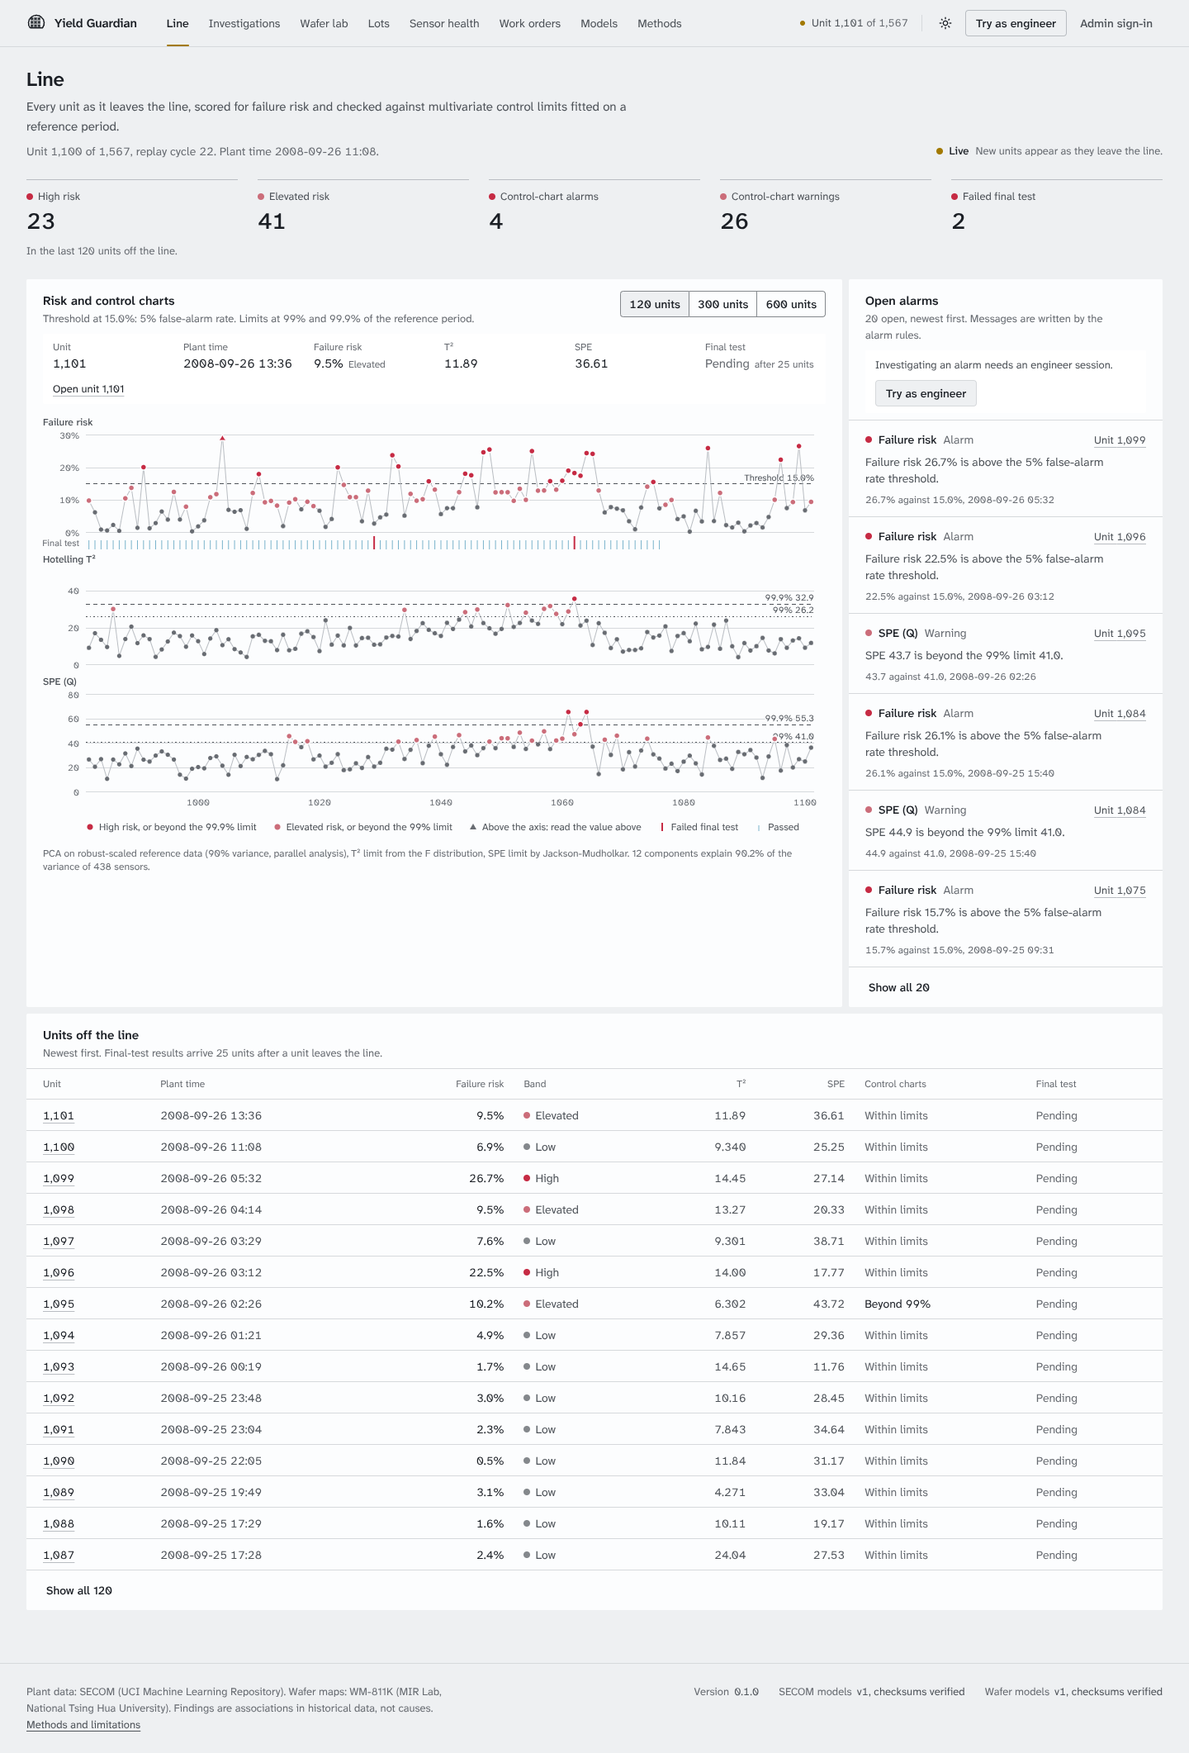
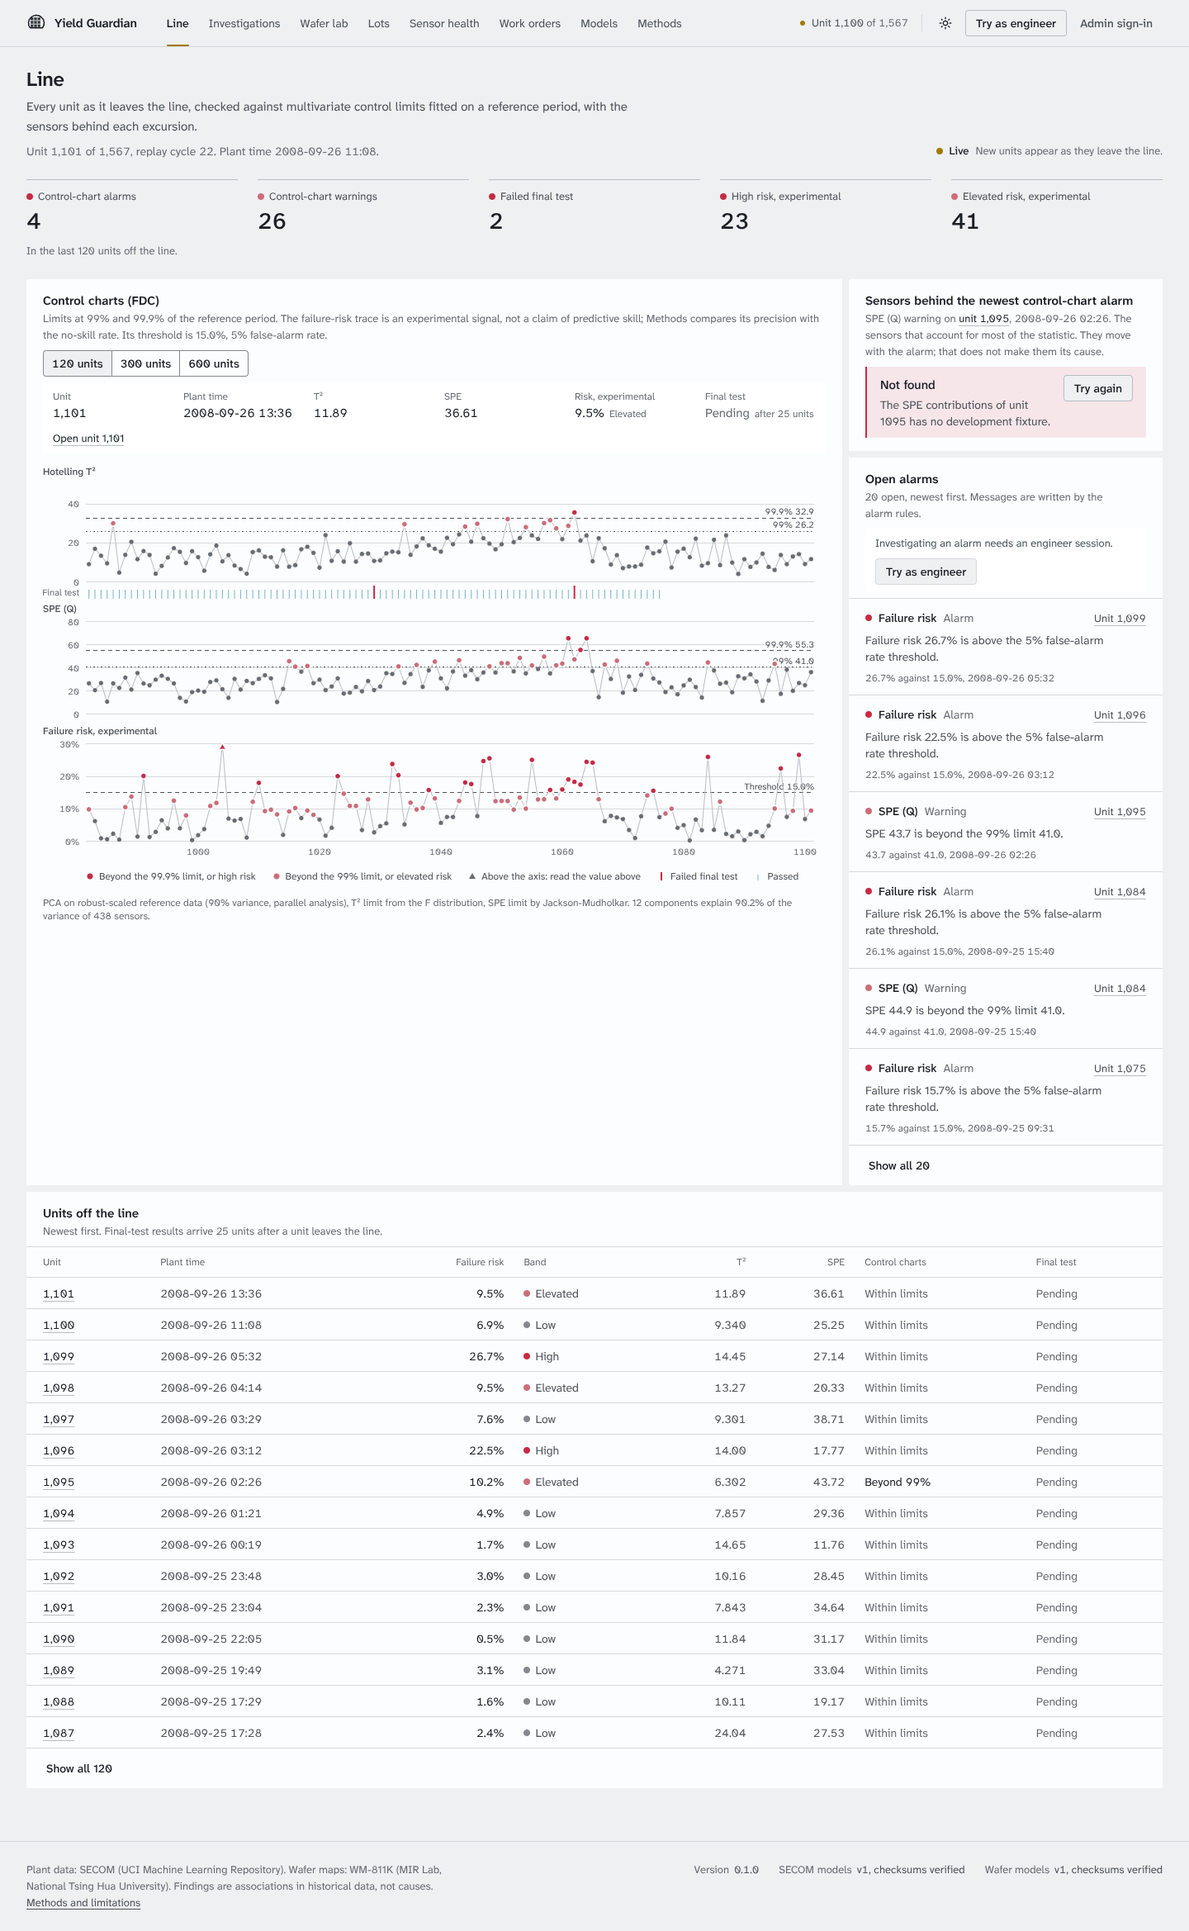
web: wafer contract update (Mahalanobis unknown score); line leads with FDC and root cause
The failure-risk trace is labelled experimental and moved below the control charts.
A new panel lists the sensors behind the newest T² or SPE alarm.

Claude-Session: https://claude.ai/code/session_01W66SkS2VhXFaLiM1yadMNk

diff --git a/apps/web/src/components/line/line-charts.tsx b/apps/web/src/components/line/line-charts.tsx
@@ -24,7 +24,7 @@ const limitTone = (value: number, warn: number, alarm: number): MarkTone =>
   value > alarm ? "fail" : value > warn ? "concern" : "neutral";
 
 /**
- * Failure risk, Hotelling T² and SPE for the units in the window, stacked on one time axis with
+ * Hotelling T², SPE and the experimental failure risk for the units in the window, stacked on one time axis with
  * one cursor. Hover or use the arrow keys to read a unit; click or Enter pins it.
  */
 export function LineCharts({
@@ -131,37 +131,37 @@ export function LineCharts({
         onKeyDown={onKeyDown}
         className="mt-3 rounded-sm"
       >
-        <ControlChart
-          {...shared}
-          label="Failure risk"
-          points={risk.points}
-          yMax={risk.max}
-          limits={risk.lines}
-          formatTick={(v) => `${Math.round(v * 100)}%`}
-          rug={rug}
-          height={166}
-        />
         {t2 && spe ? (
           <>
-            <ControlChart {...shared} label="Hotelling T²" points={t2.points} yMax={t2.max} limits={t2.lines} formatTick={(v) => formatInt(v)} />
             <ControlChart
               {...shared}
-              label="SPE (Q)"
-              points={spe.points}
-              yMax={spe.max}
-              limits={spe.lines}
+              label="Hotelling T²"
+              points={t2.points}
+              yMax={t2.max}
+              limits={t2.lines}
               formatTick={(v) => formatInt(v)}
-              showXAxis
+              rug={rug}
               height={166}
             />
+            <ControlChart {...shared} label="SPE (Q)" points={spe.points} yMax={spe.max} limits={spe.lines} formatTick={(v) => formatInt(v)} />
           </>
         ) : (
           <p className="py-6 pl-[52px] text-sm text-ink-3">Control limits are loading.</p>
         )}
+        <ControlChart
+          {...shared}
+          label="Failure risk, experimental"
+          points={risk.points}
+          yMax={risk.max}
+          limits={risk.lines}
+          formatTick={(v) => `${Math.round(v * 100)}%`}
+          showXAxis
+          height={166}
+        />
       </div>
       <Legend />
       <p className="sr-only" aria-live="polite">
-        {pinnedUnit ? `Unit ${pinnedUnit.unit_id}: risk ${formatProbability(pinnedUnit.risk)}, T² ${formatReading(pinnedUnit.t2)}, SPE ${formatReading(pinnedUnit.spe)}.` : ""}
+        {pinnedUnit ? `Unit ${pinnedUnit.unit_id}: T² ${formatReading(pinnedUnit.t2)}, SPE ${formatReading(pinnedUnit.spe)}, experimental risk ${formatProbability(pinnedUnit.risk)}.` : ""}
       </p>
     </div>
   );
@@ -182,13 +182,13 @@ function Readout({ unit, pinned, lag }: { unit: UnitSummary | undefined; pinned:
       <dl className="grid grow grid-cols-2 gap-x-6 gap-y-1 sm:grid-cols-3 lg:grid-cols-6">
         <ReadoutItem label="Unit" value={formatInt(unit.unit_id)} />
         <ReadoutItem label="Plant time" value={formatPlantTime(unit.timestamp)} />
+        <ReadoutItem label="T²" value={formatReading(unit.t2)} />
+        <ReadoutItem label="SPE" value={formatReading(unit.spe)} />
         <ReadoutItem
-          label="Failure risk"
+          label="Risk, experimental"
           value={unit.risk == null ? "Warm-up" : formatProbability(unit.risk)}
           detail={unit.risk_band ? BAND_NAME[unit.risk_band] : undefined}
         />
-        <ReadoutItem label="T²" value={formatReading(unit.t2)} />
-        <ReadoutItem label="SPE" value={formatReading(unit.spe)} />
         <ReadoutItem
           label="Final test"
           value={finalTest}
@@ -223,11 +223,11 @@ function Legend() {
     <ul className="mt-3 flex flex-wrap gap-x-5 gap-y-1.5 pl-[52px] text-[12px] leading-4 text-ink-2" aria-label="Legend">
       <li className={item}>
         <svg width="10" height="10" aria-hidden="true"><circle cx="5" cy="5" r="3.5" fill="var(--fail)" /></svg>
-        High risk, or beyond the 99.9% limit
+        Beyond the 99.9% limit, or high risk
       </li>
       <li className={item}>
         <svg width="10" height="10" aria-hidden="true"><circle cx="5" cy="5" r="3.5" fill="var(--concern)" /></svg>
-        Elevated risk, or beyond the 99% limit
+        Beyond the 99% limit, or elevated risk
       </li>
       <li className={item}>
         <svg width="10" height="10" aria-hidden="true"><path d="M5,1 l4,7 h-8z" fill="var(--ink-3)" /></svg>

diff --git a/apps/web/src/components/unit/unit-view.tsx b/apps/web/src/components/unit/unit-view.tsx
@@ -1,11 +1,12 @@
 "use client";
 
 import { useQuery } from "@tanstack/react-query";
-import type { FdcContributions, UnitDetail } from "@yield-guardian/contracts";
+import type { UnitDetail } from "@yield-guardian/contracts";
 import Link from "next/link";
 import { useState } from "react";
 
 import { ShapWaterfall } from "@/components/charts/shap-waterfall";
+import { ContributionTable } from "@/components/fdc/contribution-table";
 import { PageFrame, PageHeader, Panel, Reading } from "@/components/page";
 import { EmptyState, ErrorState, Placeholder, QueryView } from "@/components/states";
 import { Button } from "@/components/ui/button";
@@ -15,7 +16,7 @@ import { ApiError } from "@/lib/api/errors";
 import { useStartInvestigation } from "@/lib/api/investigations";
 import { q } from "@/lib/api/queries";
 import { useSession, useStartGuestSession } from "@/lib/api/session";
-import { formatInt, formatPercent, formatPlantTime, formatProbability, formatReading, formatSigned } from "@/lib/format";
+import { formatInt, formatPlantTime, formatProbability, formatReading, formatSigned } from "@/lib/format";
 import { ALARM_KIND, BAND_NAME, BLOCK_NAME } from "@/lib/labels";
 import { cn } from "@/lib/utils";
 
@@ -161,60 +162,6 @@ function Contributions({ unitId }: { unitId: number }) {
         {(c) => <ContributionTable data={c} />}
       </QueryView>
     </Panel>
-  );
-}
-
-function ContributionTable({ data }: { data: FdcContributions }) {
-  const max = Math.max(...data.contributions.map((c) => c.share), data.other_share, 0.01);
-  return (
-    <>
-      <p className="tnum mb-3 text-[13px] leading-5 text-ink-2">
-        {data.statistic === "t2" ? "T²" : "SPE"} {formatReading(data.value)} against limits {formatReading(data.limit_99, 3)} (99%) and{" "}
-        {formatReading(data.limit_999, 3)} (99.9%).
-      </p>
-      <table className="w-full border-collapse text-left text-[13px] leading-5">
-        <caption className="sr-only">Contributions by sensor</caption>
-        <thead>
-          <tr className="text-[12px] text-ink-3">
-            <th scope="col" className="py-1.5 pr-3 font-normal">Sensor</th>
-            <th scope="col" className="w-[40%] py-1.5 pr-3 font-normal">Share</th>
-            <th scope="col" className="py-1.5 pr-3 text-right font-normal">Reading</th>
-            <th scope="col" className="py-1.5 text-right font-normal">Reference median</th>
-          </tr>
-        </thead>
-        <tbody>
-          {data.contributions.map((c) => (
-            <tr key={c.sensor} className="border-t border-hairline">
-              <th scope="row" className="tnum py-1.5 pr-3 font-normal">
-                <Link href={`/sensors?sensor=${c.sensor}`} className="text-ink underline decoration-hairline-strong underline-offset-4">
-                  {c.sensor}
-                </Link>
-              </th>
-              <td className="py-1.5 pr-3">
-                <span className="flex items-center gap-2">
-                  <span className="h-2.5 rounded-[2px] bg-ink-2" style={{ width: `${(c.share / max) * 100}%`, minWidth: 2 }} aria-hidden="true" />
-                  <span className="tnum shrink-0 text-ink-2">{formatPercent(c.share)}</span>
-                </span>
-              </td>
-              <td className="tnum py-1.5 pr-3 text-right text-ink">{c.value == null ? <span className="text-ink-3">Not measured</span> : formatReading(c.value)}</td>
-              <td className="tnum py-1.5 text-right text-ink-3">{formatReading(c.reference_median)}</td>
-            </tr>
-          ))}
-          <tr className="border-t border-hairline">
-            <th scope="row" className="py-1.5 pr-3 font-normal text-ink-3">Others</th>
-            <td className="py-1.5 pr-3">
-              <span className="flex items-center gap-2">
-                <span className="h-2.5 rounded-[2px] bg-mark-muted" style={{ width: `${(data.other_share / max) * 100}%`, minWidth: 2 }} aria-hidden="true" />
-                <span className="tnum shrink-0 text-ink-3">{formatPercent(data.other_share)}</span>
-              </span>
-            </td>
-            <td />
-            <td />
-          </tr>
-        </tbody>
-      </table>
-      <p className="mt-3 text-[12px] leading-4 text-ink-3">{data.method}.</p>
-    </>
   );
 }
 

diff --git a/apps/web/src/components/fdc/contribution-table.tsx b/apps/web/src/components/fdc/contribution-table.tsx
@@ -1,0 +1,59 @@
+import type { FdcContributions } from "@yield-guardian/contracts";
+import Link from "next/link";
+
+import { formatPercent, formatReading } from "@/lib/format";
+
+/** Each sensor's share of a unit's T² or SPE, largest first, with the reading against the reference median. */
+export function ContributionTable({ data }: { data: FdcContributions }) {
+  const max = Math.max(...data.contributions.map((c) => c.share), data.other_share, 0.01);
+  return (
+    <>
+      <p className="tnum mb-3 text-[13px] leading-5 text-ink-2">
+        {data.statistic === "t2" ? "T²" : "SPE"} {formatReading(data.value)} against limits {formatReading(data.limit_99, 3)} (99%) and{" "}
+        {formatReading(data.limit_999, 3)} (99.9%).
+      </p>
+      <table className="w-full border-collapse text-left text-[13px] leading-5">
+        <caption className="sr-only">Contributions by sensor</caption>
+        <thead>
+          <tr className="text-[12px] text-ink-3">
+            <th scope="col" className="py-1.5 pr-3 font-normal">Sensor</th>
+            <th scope="col" className="w-[40%] py-1.5 pr-3 font-normal">Share</th>
+            <th scope="col" className="py-1.5 pr-3 text-right font-normal">Reading</th>
+            <th scope="col" className="py-1.5 text-right font-normal">Reference median</th>
+          </tr>
+        </thead>
+        <tbody>
+          {data.contributions.map((c) => (
+            <tr key={c.sensor} className="border-t border-hairline">
+              <th scope="row" className="tnum py-1.5 pr-3 font-normal">
+                <Link href={`/sensors?sensor=${c.sensor}`} className="text-ink underline decoration-hairline-strong underline-offset-4">
+                  {c.sensor}
+                </Link>
+              </th>
+              <td className="py-1.5 pr-3">
+                <span className="flex items-center gap-2">
+                  <span className="h-2.5 rounded-[2px] bg-ink-2" style={{ width: `${(c.share / max) * 100}%`, minWidth: 2 }} aria-hidden="true" />
+                  <span className="tnum shrink-0 text-ink-2">{formatPercent(c.share)}</span>
+                </span>
+              </td>
+              <td className="tnum py-1.5 pr-3 text-right text-ink">{c.value == null ? <span className="text-ink-3">Not measured</span> : formatReading(c.value)}</td>
+              <td className="tnum py-1.5 text-right text-ink-3">{formatReading(c.reference_median)}</td>
+            </tr>
+          ))}
+          <tr className="border-t border-hairline">
+            <th scope="row" className="py-1.5 pr-3 font-normal text-ink-3">Others</th>
+            <td className="py-1.5 pr-3">
+              <span className="flex items-center gap-2">
+                <span className="h-2.5 rounded-[2px] bg-mark-muted" style={{ width: `${(data.other_share / max) * 100}%`, minWidth: 2 }} aria-hidden="true" />
+                <span className="tnum shrink-0 text-ink-3">{formatPercent(data.other_share)}</span>
+              </span>
+            </td>
+            <td />
+            <td />
+          </tr>
+        </tbody>
+      </table>
+      <p className="mt-3 text-[12px] leading-4 text-ink-3">{data.method}.</p>
+    </>
+  );
+}

diff --git a/apps/web/src/components/line/root-cause.tsx b/apps/web/src/components/line/root-cause.tsx
@@ -1,0 +1,63 @@
+"use client";
+
+import { useQuery } from "@tanstack/react-query";
+import type { Alarm } from "@yield-guardian/contracts";
+import Link from "next/link";
+
+import { ContributionTable } from "@/components/fdc/contribution-table";
+import { Panel } from "@/components/page";
+import { EmptyState, Placeholder, QueryView } from "@/components/states";
+import { useApi } from "@/lib/api/context";
+import { q } from "@/lib/api/queries";
+import { formatInt, formatPlantTime } from "@/lib/format";
+import { ALARM_KIND } from "@/lib/labels";
+
+const TOP = 8;
+
+/** The newest open T² or SPE alarm (alarms arrive newest first). */
+export function newestControlAlarm(alarms: Alarm[]): (Alarm & { kind: "t2" | "spe" }) | undefined {
+  return alarms.find((a): a is Alarm & { kind: "t2" | "spe" } => a.kind === "t2" || a.kind === "spe");
+}
+
+/**
+ * Root cause, as far as the control charts can say it: which sensors carry the newest
+ * control-chart alarm. Contributions are associations with the statistic, not causes.
+ */
+export function RootCause({ alarms, className }: { alarms: Alarm[]; className?: string }) {
+  const api = useApi();
+  const alarm = newestControlAlarm(alarms);
+  const query = useQuery({ ...q.contributions(api, alarm?.unit_id ?? 0, alarm?.kind ?? "t2", TOP), enabled: alarm != null });
+
+  return (
+    <Panel
+      title="Sensors behind the newest control-chart alarm"
+      description={
+        alarm ? (
+          <>
+            <span className="tnum">
+              {ALARM_KIND[alarm.kind]} {alarm.severity === "alarm" ? "alarm" : "warning"} on{" "}
+              <Link href={`/units/${alarm.unit_id}`} className="text-ink underline decoration-hairline-strong underline-offset-4">
+                unit {formatInt(alarm.unit_id)}
+              </Link>
+              , {formatPlantTime(alarm.timestamp)}.
+            </span>{" "}
+            The sensors that account for most of the statistic. They move with the alarm; that does not make them its cause.
+          </>
+        ) : (
+          "The sensors that account for most of a control-chart statistic, for the newest T² or SPE alarm."
+        )
+      }
+      className={className}
+    >
+      {alarm ? (
+        <QueryView query={query} loading={<Placeholder className="h-64" label="Loading contributions" />} compactError>
+          {(c) => <ContributionTable data={c} />}
+        </QueryView>
+      ) : (
+        <EmptyState title="No open control-chart alarm">
+          When a unit crosses the T² or SPE limit, the sensors that carry it are listed here.
+        </EmptyState>
+      )}
+    </Panel>
+  );
+}

diff --git a/apps/web/src/components/line/line-view.tsx b/apps/web/src/components/line/line-view.tsx
@@ -17,6 +17,7 @@ import { LineCharts } from "./line-charts";
 import { LineKpis } from "./line-kpis";
 import { OpenAlarms } from "./open-alarms";
 import { RecentUnits } from "./recent-units";
+import { RootCause } from "./root-cause";
 
 export function LineView() {
   const api = useApi();
@@ -30,7 +31,7 @@ export function LineView() {
     <PageFrame>
       <PageHeader
         title="Line"
-        description="Every unit as it leaves the line, scored for failure risk and checked against multivariate control limits fitted on a reference period."
+        description="Every unit as it leaves the line, checked against multivariate control limits fitted on a reference period, with the sensors behind each excursion."
         meta={
           state ? (
             <span className="tnum">
@@ -54,8 +55,8 @@ export function LineView() {
           <LineKpis kpis={state.kpis} className="mb-4" />
           <div className="grid gap-street xl:grid-cols-[minmax(0,1fr)_380px]">
             <Panel
-              title="Risk and control charts"
-              description={`Threshold at ${formatProbability(state.operating_point.threshold)}: ${state.operating_point.label}. Limits at 99% and 99.9% of the reference period.`}
+              title="Control charts (FDC)"
+              description={`Limits at 99% and 99.9% of the reference period. The failure-risk trace is an experimental signal, not a claim of predictive skill; Methods compares its precision with the no-skill rate. Its threshold is ${formatProbability(state.operating_point.threshold)}, ${state.operating_point.label}.`}
               actions={
                 <ToggleGroup
                   type="single"
@@ -84,7 +85,10 @@ export function LineView() {
                 </p>
               ) : null}
             </Panel>
-            <OpenAlarms alarms={state.open_alarms} />
+            <div className="grid min-w-0 content-start gap-street">
+              <RootCause alarms={state.open_alarms} />
+              <OpenAlarms alarms={state.open_alarms} />
+            </div>
           </div>
           <RecentUnits units={state.recent} lag={state.clock.final_test_lag_units} />
         </div>

diff --git a/apps/web/src/components/wafer/wafer-lab.tsx b/apps/web/src/components/wafer/wafer-lab.tsx
@@ -235,13 +235,13 @@ function WaferDetailView({ detail }: { detail: WaferDetail }) {
               <h3 className="mt-6 text-[14px] leading-5 font-semibold text-ink">Like the training patterns?</h3>
               <p className="mt-1 text-[14px] leading-5 text-ink-2">
                 {p.unknown.is_unknown
-                  ? "No: the energy score is above the threshold, so the map is reported as an unknown pattern."
-                  : "Yes: the energy score is below the threshold."}{" "}
+                  ? "No: the unknown-pattern score (Mahalanobis) is above the threshold, so the map is reported as an unknown pattern."
+                  : "Yes: the unknown-pattern score (Mahalanobis) is below the threshold."}{" "}
                 <span className="tnum text-ink-3">
-                  Score {formatReading(p.unknown.score, 3)} against {formatReading(p.unknown.threshold, 3)}; the threshold keeps{" "}
+                  Score {formatReading(p.unknown.score, 3)} against {formatReading(p.unknown.threshold, 3)}, a threshold set on the validation set that keeps{" "}
                   {formatPercent(p.unknown.in_distribution_recall, 0)} of known patterns.
-                  {p.unknown.mahalanobis_distance != null
-                    ? ` Mahalanobis distance ${formatReading(p.unknown.mahalanobis_distance, 3)}${p.unknown.mahalanobis_flag ? ", flagged" : ""}.`
+                  {p.unknown.energy_score != null
+                    ? ` Energy score ${formatReading(p.unknown.energy_score, 3)}, a cross-check that does not set the flag.`
                     : ""}
                 </span>
               </p>

diff --git a/apps/web/src/components/line/line-kpis.tsx b/apps/web/src/components/line/line-kpis.tsx
@@ -6,11 +6,11 @@ import { cn } from "@/lib/utils";
 /** Counts over the units in the window, as the API defines them. Marks carry the chart colours. */
 export function LineKpis({ kpis, className }: { kpis: Kpis; className?: string }) {
   const items: { label: string; value: number; mark?: string }[] = [
-    { label: "High risk", value: kpis.high_risk, mark: "var(--fail)" },
-    { label: "Elevated risk", value: kpis.elevated_risk, mark: "var(--concern)" },
     { label: "Control-chart alarms", value: kpis.fdc_alarms, mark: "var(--fail)" },
     { label: "Control-chart warnings", value: kpis.fdc_warnings, mark: "var(--concern)" },
     { label: "Failed final test", value: kpis.failures_revealed, mark: "var(--fail)" },
+    { label: "High risk, experimental", value: kpis.high_risk, mark: "var(--fail)" },
+    { label: "Elevated risk, experimental", value: kpis.elevated_risk, mark: "var(--concern)" },
   ];
   return (
     <section aria-label={`Counts over the last ${kpis.window_units} units`} className={cn("min-w-0", className)}>

diff --git a/apps/web/src/components/line/recent-units.tsx b/apps/web/src/components/line/recent-units.tsx
@@ -33,7 +33,7 @@ export function RecentUnits({ units, lag }: { units: UnitSummary[]; lag: number 
             <tr className="border-y border-hairline text-[12px] text-ink-3">
               <th scope="col" className="px-4 py-2 font-normal sm:px-5">Unit</th>
               <th scope="col" className="px-3 py-2 font-normal">Plant time</th>
-              <th scope="col" className="px-3 py-2 text-right font-normal">Failure risk</th>
+              <th scope="col" className="px-3 py-2 text-right font-normal">Risk, experimental</th>
               <th scope="col" className="px-3 py-2 font-normal">Band</th>
               <th scope="col" className="px-3 py-2 text-right font-normal">T²</th>
               <th scope="col" className="px-3 py-2 text-right font-normal">SPE</th>
